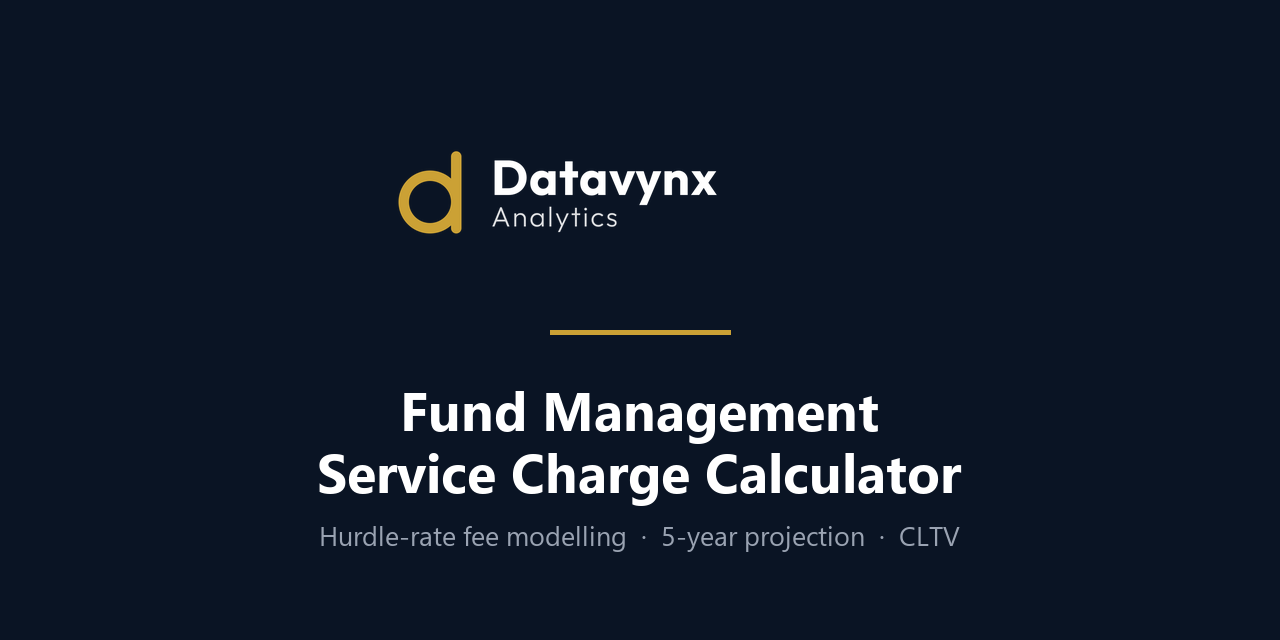
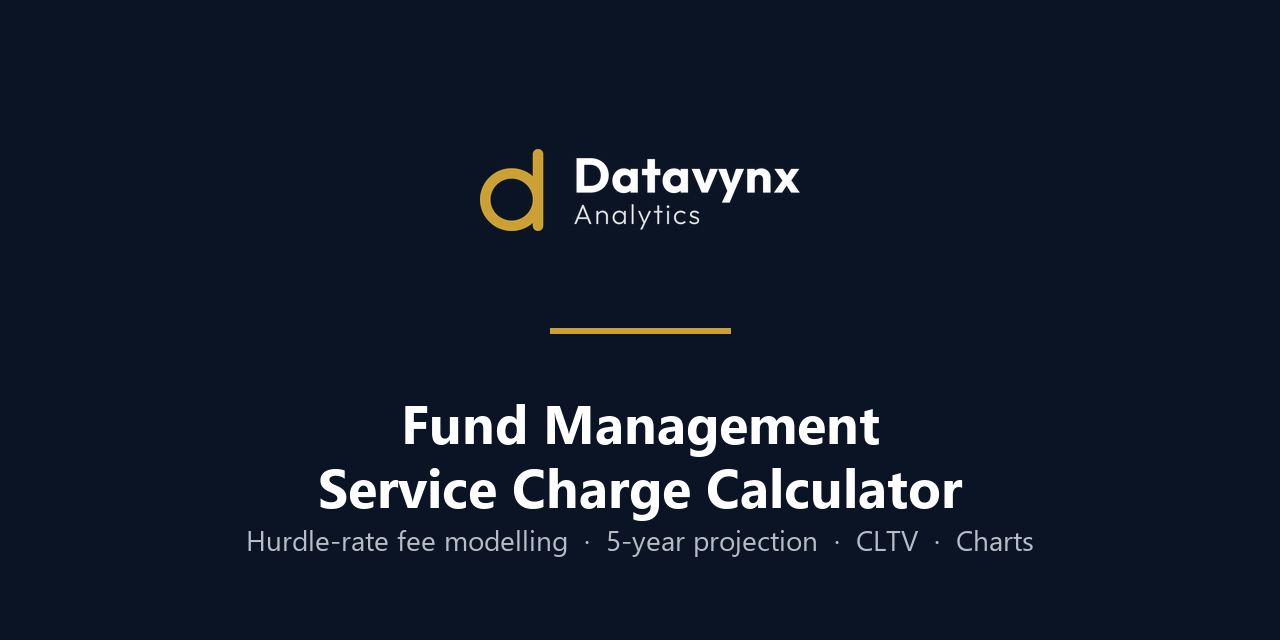
Mention charts in README badges and social preview
Adds a charts badge and a Charts feature bullet, and re-issues the social
preview card with "Charts" in its tagline. The card is now produced by
assets/make_social_preview.py (same composition as before) so future
tagline changes are a one-line edit rather than a redraw. The regenerated
PNG still has to be re-uploaded by hand under Settings > Social preview.

Changed region(s): [[0.1875, 0.5938, 0.8125, 0.875], [0.3125, 0.2188, 0.625, 0.375], [0.4375, 0.5, 0.5625, 0.5312]]

diff --git a/assets/make_social_preview.py b/assets/make_social_preview.py
@@ -1,0 +1,66 @@
+"""Regenerates assets/social-preview.png (GitHub social card, 1280x640).
+
+Run from the repo root:  python assets/make_social_preview.py
+
+Kept in the repo so the card can be re-issued whenever the tagline changes,
+instead of being re-drawn by hand. Same composition as the original: navy
+field, centred lockup, the gold rule the app header uses, title, tagline.
+Segoe UI is used because it is what the app renders in on Windows; the
+script falls back to Pillow's default font elsewhere, which will look worse
+-- regenerate on a machine with Segoe UI.
+"""
+
+from pathlib import Path
+
+from PIL import Image, ImageDraw, ImageFont
+
+HERE = Path(__file__).parent
+W, H = 1280, 640
+NAVY = "#0A1424"
+GOLD = "#CBA135"
+WHITE = "#FFFFFF"
+MUTED = "#B7BDC7"
+
+TITLE = ["Fund Management", "Service Charge Calculator"]
+TAGLINE = "Hurdle-rate fee modelling  ·  5-year projection  ·  CLTV  ·  Charts"
+
+
+def font(name: str, size: int) -> ImageFont.FreeTypeFont:
+    for candidate in (Path("C:/Windows/Fonts") / name, HERE / name):
+        if candidate.exists():
+            return ImageFont.truetype(str(candidate), size)
+    return ImageFont.load_default(size)
+
+
+def main() -> None:
+    card = Image.new("RGB", (W, H), NAVY)
+    draw = ImageDraw.Draw(card)
+
+    # Lockup: the transparent logo, scaled to ~320px wide, centred at y=190.
+    logo = Image.open(HERE / "datavynx-logo-transparent.png").convert("RGBA")
+    # The asset carries transparent margins; crop to the artwork so the
+    # target width applies to the visible lockup.
+    logo = logo.crop(logo.getbbox())
+    logo_w = 320
+    logo = logo.resize((logo_w, int(logo.height * logo_w / logo.width)), Image.LANCZOS)
+    card.paste(logo, ((W - logo.width) // 2, 190 - logo.height // 2), logo)
+
+    # Gold rule -- the "structure" cue from the app's title bar.
+    draw.rectangle([(W // 2 - 90, 328), (W // 2 + 90, 333)], fill=GOLD)
+
+    title_font = font("segoeuib.ttf", 54)
+    y = 385
+    for line in TITLE:
+        w = draw.textlength(line, font=title_font)
+        draw.text(((W - w) / 2, y), line, font=title_font, fill=WHITE)
+        y += 64
+
+    tag_font = font("segoeui.ttf", 28)
+    w = draw.textlength(TAGLINE, font=tag_font)
+    draw.text(((W - w) / 2, 520), TAGLINE, font=tag_font, fill=MUTED)
+
+    card.save(HERE / "social-preview.png", optimize=True)
+
+
+if __name__ == "__main__":
+    main()

diff --git a/README.md b/README.md
@@ -8,6 +8,7 @@
   <img src="https://img.shields.io/badge/tests-38%20passing-CBA135?style=flat-square" alt="tests">
   <img src="https://img.shields.io/badge/python-3.14-0A1424?style=flat-square" alt="python">
   <img src="https://img.shields.io/badge/streamlit-1.61-0A1424?style=flat-square" alt="streamlit">
+  <img src="https://img.shields.io/badge/charts-6%20Altair-CBA135?style=flat-square" alt="charts">
   <img src="https://img.shields.io/badge/internal%20use-only-C0392B?style=flat-square" alt="internal use only">
 </p>
 
@@ -17,6 +18,9 @@ hurdle-rate-plus-profit-share arrangement.
 - **Phase 1** — single-year calculation with a full formula audit trail.
 - **Phase 2** — five-year compounding projection with per-year rate overrides,
   payouts, and a Client Lifetime Value figure.
+- **Charts** — six Altair charts alongside the tables (profit allocation,
+  yields vs hurdle, sensitivity, capital over time, yearly split with CLTV,
+  capital waterfall), sized to read on a phone as well as a desktop.
 - **Client view** — a toggle that presents the same numbers from the client's
   side, withholding fund house earnings, house yield and CLTV.
 
@@ -329,6 +333,7 @@ on. It is never used as a background fill.
 | `assets/datavynx-icon.png` | Browser favicon, and the sidebar mark when collapsed |
 | `assets/datavynx-logo-transparent.png` | Spare, for light or coloured backgrounds |
 | `assets/social-preview.png` | GitHub social preview card, 1280×640 |
+| `assets/make_social_preview.py` | Regenerates the card (`python assets/make_social_preview.py`); edit its `TAGLINE` when the feature list changes, then re-upload |
 
 GitHub's social preview is a **repository setting, not a file** — there is no
 REST or GraphQL write path for it (`openGraphImageUrl` is read-only), so it
